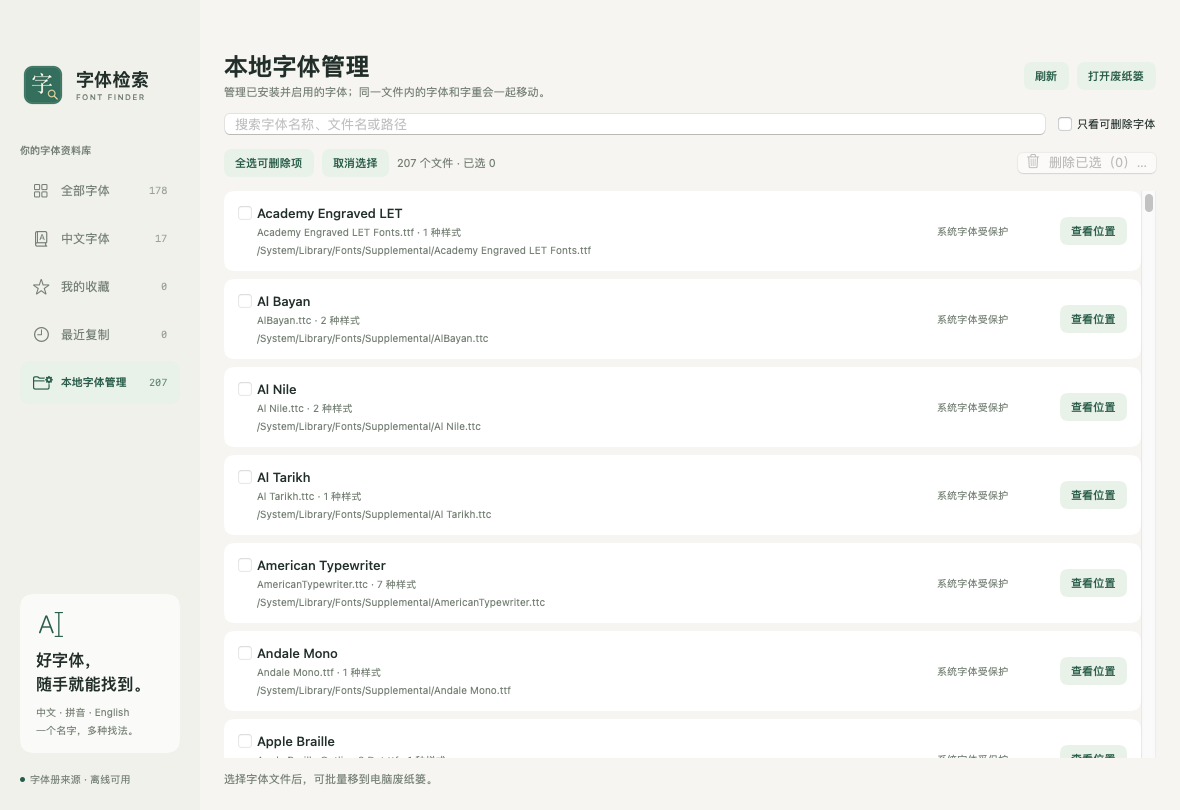
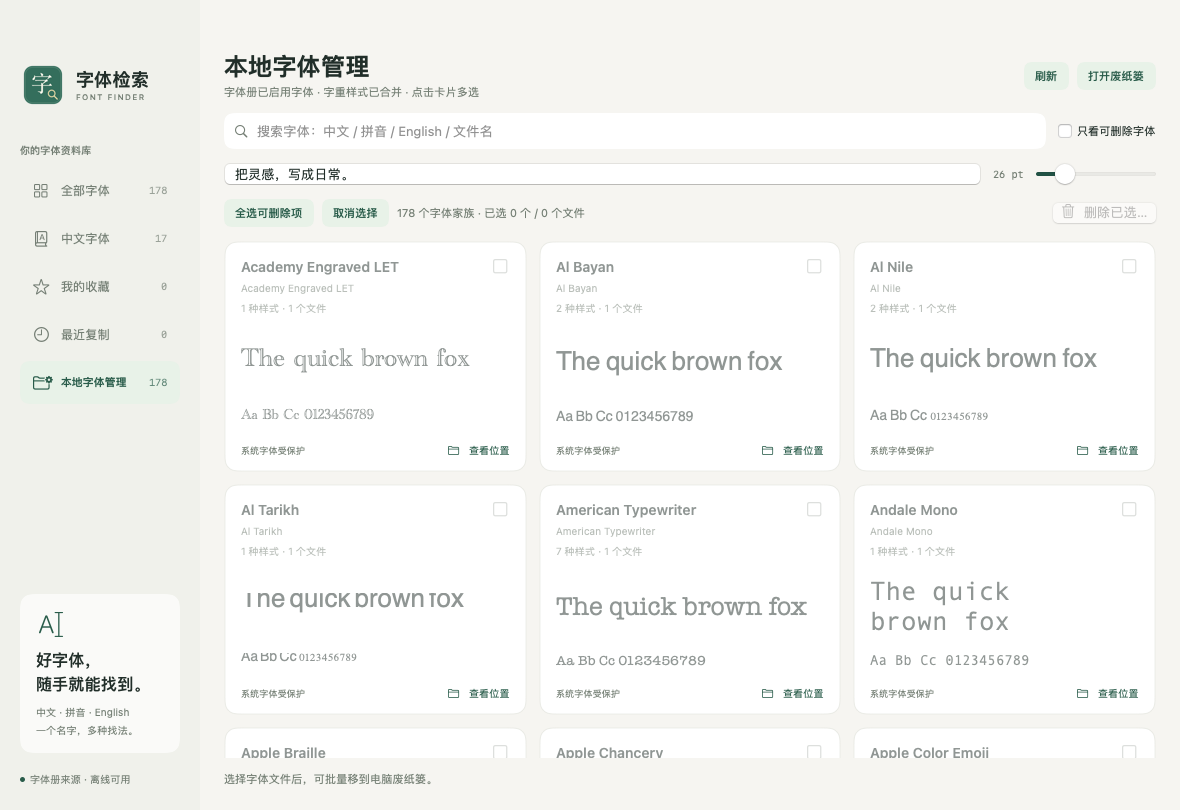
Keep protected font previews readable and record grid validation

diff --git a/Source/FontManagementView.swift b/Source/FontManagementView.swift
@@ -8,7 +8,7 @@ import SwiftUI
     @Published var query = ""
     @Published var onlyDeletable = false
     @Published var isProcessing = false
-    @Published var status = "选择字体文件后，可批量移到电脑废纸篓。"
+    @Published var status = "选择字体后，可批量移到电脑废纸篓。"
     @Published var results: [FontTrashResult] = []
     let store = FontTrashStore()
     var selectedFiles: [LocalFontFile] { LocalFontFamily.selectedFiles(in: families, selected: selected) }
@@ -150,6 +150,12 @@ struct FontManagementView: View {
     }
 }
 
+private struct FontManagementCardButtonStyle: ButtonStyle {
+    func makeBody(configuration: Configuration) -> some View {
+        configuration.label.foregroundColor(Palette.ink).opacity(configuration.isPressed ? 0.85 : 1)
+    }
+}
+
 private struct FontManagementCard: View {
     @ObservedObject var appModel: AppModel
     @ObservedObject var manager: FontManagementModel
@@ -182,7 +188,7 @@ private struct FontManagementCard: View {
                     Text("Aa Bb Cc 0123456789").font(.custom(face.id, size: 14))
                         .lineLimit(1).frame(height: 22, alignment: .leading)
                 }.frame(maxWidth: .infinity, alignment: .leading).padding(16).contentShape(Rectangle())
-            }.buttonStyle(.plain).disabled(!item.canTrash || manager.isProcessing)
+            }.buttonStyle(FontManagementCardButtonStyle()).disabled(!item.canTrash || manager.isProcessing)
                 .accessibilityLabel("\(item.font.english)，\(chosen ? "已选择" : "未选择")")
                 .help(item.unavailableReason ?? "选择此家族的全部字体文件；共用文件的其他字体也会一起移除")
             HStack(spacing: 6) {

diff --git a/documentation/v1.13-validation.md b/documentation/v1.13-validation.md
@@ -1,0 +1,14 @@
+# v1.13 字体管理预览卡片验证
+
+日期：2026-11-04；版本 1.13、构建 14。
+
+- [预发布构建](https://github.com/sudazz777/ZiTiJianSuo/actions/runs/41783688565) 成功，来源 `4e32b05`。本机功能检查 84 项、更新检查 34 项、字体管理检查 26 项、历史 GitHub 模块检查 61 项均通过。
+- 管理页与全部字体页使用同一个字体册来源：CoreText 中已启用、持久注册且存在实际文件的字体，不新增目录扫描。按字体家族呈现卡片，字重合并。CI 中两个界面均为 178 个家族。
+- 已查看原生管理页截图：默认窗口按三列逐行排列，显示中英文名称、样式和文件数量、真实字体字形、选择框及文件位置入口。使用自适应网格，根据可用宽度调整列数；未自动化拖动窗口验证所有宽度。
+- 支持中文、拼音、英文、别名和路径搜索，以及预览文字与字号调整。西文字体在预览文字含汉字时使用英文示例，避免只显示中文备用字形。
+- 新增六项检查验证：字重合并成一个卡片、完整保留主列表的家族集合、多个家族共用文件时去重、一个家族包含多个文件时完整选择、保护字体仍可预览但不可选择、文件信息缺失时保留卡片并禁止删除。
+- 沿用真实 macOS 废纸篓移动与失败回滚检查。删除前仍需确认全部实际文件，默认取消；共用文件中的其他字体也会一起移除。未自动化操作二次确认弹窗。
+- DMG 挂载、Finder 左应用右 Applications 的居中布局、拖拽复制、安装后文件完整性和代码签名检查通过。安装包包含 arm64 与 x86_64；实际运行检查使用 macOS 14 Apple 芯片环境。
+- 自动更新仍仅在软件启动时检查，保留手动检查，不新增定时后台检测。仅在 GitHub Releases 发布 DMG，未发布网站。应用仍采用 ad-hoc 签名，未完成 Developer ID 签名及 Apple 公证。
+
+![字体管理卡片](assets/font-management-preview.png)

diff --git a/README.md b/README.md
@@ -27,7 +27,7 @@
 - 一键复制中英文家族名称，自定义中英文别名。
 - 查看字体文件位置，在访达中定位当前预览字重。
 - 全部字体、中文字体、收藏及最近复制分类。
-- 本地字体管理：搜索、多选字体文件，二次确认后批量移到电脑废纸篓；系统字体受保护。
+- 本地字体管理：多列字形预览、搜索、多选字体家族，二次确认后批量移到电脑废纸篓；系统字体受保护。
 - 英文名称、中文拼音及最近复制等六种排序方式，点击当前排序名称即可选择。
 - 每次启动自动检查更新，有新版本时自动弹窗；不进行定时后台检测。
 - 本机检索可离线使用，收藏、别名和最近复制保存在本机。更新检查需要联网。
@@ -39,6 +39,8 @@
 「本地字体管理」改为多列字体预览卡片，随窗口宽度自动排列。和「全部字体」共用字体册已启用的字体家族列表，字重合并，支持中文、拼音、英文搜索以及预览文字和字号调整。西文字体默认显示英文示例，便于观察实际字形。
 
 选中一个家族会包含该家族的全部字体文件；删除前需确认完整文件清单，确认后移到电脑废纸篓。共用同一文件的字体会一起移除，系统字体不可删除。
+
+![本地字体管理预览](documentation/assets/font-management-preview.png)
 
 左侧分类支持整行点击。每次启动自动检查更新，有新版本时自动弹窗；保留手动检查，不进行定时后台检测。
 
